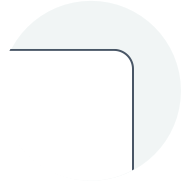
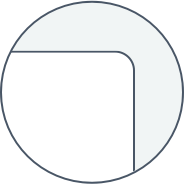
404 error practice

Changed region(s): [[0.0, 0.0, 1.0, 1.0]]

diff --git a/_site/animation.scss b/_site/animation.scss
@@ -28,11 +28,13 @@ p {
   font-weight: 16px;
 }
 
+// 500 error
+
 .wrench {
   text-align: center;
   margin: 0 auto;
-  animation: wrench-wait2 3s ease-in infinite;
-  transform-origin: 28px 28px;
+  animation: wrench-move 3s ease-in infinite;
+  transform-origin: 26px 26px;
   margin-top: 44px;
   margin-bottom: 44px;
   z-index: 100;
@@ -41,8 +43,7 @@ p {
   top: 120px;
 }
 
-//keyframe
-@keyframes wrench-wait2 {
+@keyframes wrench-move {
   22% { transform:rotate(-30deg) }
   26% { transform:rotate(-30deg) }
 
@@ -58,7 +59,6 @@ p {
   95% { transform:rotate(15deg) }
   100% { transform:rotate(0deg) }
 
-
 }
 
 
@@ -72,7 +72,6 @@ p {
 
 }
 
-//keyframe
 @keyframes error-thunder {
   50% {
     transform: translate(-15px, 15px);
@@ -81,11 +80,45 @@ p {
 }
 
 .bg-device {
-  width: 180px;
-  height: 180px;
+  width: 184px;
+  height: 184px;
   margin: 0 auto;
   background: url(img_device-bg.png) no-repeat no-repeat;
   z-index: 0;
   position: relative;
   top: -140px;
+}
+
+
+
+// 404 error
+.bg-compass {
+  width: 180px;
+  height: 206px;
+  margin: 0 auto;
+  background: url(img_compass.png) no-repeat no-repeat;
+  background-size: 100% 100%;
+  z-index: 0;
+  position: relative;
+  top: -140px;
+}
+
+.needle {
+  width: 40px;
+  height: 102px;
+  text-align: center;
+  margin: 0 auto;
+  animation: needle-move 5.5s ease-out infinite;
+  transform-origin: 50% 50%;
+  margin-top: 44px;
+  margin-bottom: 44px;
+  z-index: 100;
+  position: relative;
+  top: 72px;
+}
+
+@keyframes needle-move {
+  0% { transform:rotate(-20deg) }
+  50% { transform:rotate(340deg) }
+  100% { transform:rotate(-20deg) }
 }

diff --git a/_site/animation.css b/_site/animation.css
@@ -25,8 +25,8 @@ p {
 .wrench {
   text-align: center;
   margin: 0 auto;
-  animation: wrench-wait2 3s ease-in infinite;
-  transform-origin: 28px 28px;
+  animation: wrench-move 3s ease-in infinite;
+  transform-origin: 26px 26px;
   margin-top: 44px;
   margin-bottom: 44px;
   z-index: 100;
@@ -34,7 +34,7 @@ p {
   left: 20px;
   top: 120px; }
 
-@keyframes wrench-wait2 {
+@keyframes wrench-move {
   22% {
     transform: rotate(-30deg); }
   26% {
@@ -68,12 +68,43 @@ p {
     transform: translate(-15px, 15px);
     opacity: 1; } }
 .bg-device {
-  width: 180px;
-  height: 180px;
+  width: 184px;
+  height: 184px;
   margin: 0 auto;
   background: url(img_device-bg.png) no-repeat no-repeat;
   z-index: 0;
   position: relative;
   top: -140px; }
+
+.bg-compass {
+  width: 180px;
+  height: 206px;
+  margin: 0 auto;
+  background: url(img_compass.png) no-repeat no-repeat;
+  background-size: 100% 100%;
+  z-index: 0;
+  position: relative;
+  top: -140px; }
+
+.needle {
+  width: 40px;
+  height: 102px;
+  text-align: center;
+  margin: 0 auto;
+  animation: needle-move 5.5s ease-out infinite;
+  transform-origin: 50% 50%;
+  margin-top: 44px;
+  margin-bottom: 44px;
+  z-index: 100;
+  position: relative;
+  top: 72px; }
+
+@keyframes needle-move {
+  0% {
+    transform: rotate(-20deg); }
+  50% {
+    transform: rotate(340deg); }
+  100% {
+    transform: rotate(-20deg); } }
 
 /*# sourceMappingURL=animation.css.map */

diff --git a/animation.css b/animation.css
@@ -25,8 +25,8 @@ p {
 .wrench {
   text-align: center;
   margin: 0 auto;
-  animation: wrench-wait2 3s ease-in infinite;
-  transform-origin: 28px 28px;
+  animation: wrench-move 3s ease-in infinite;
+  transform-origin: 26px 26px;
   margin-top: 44px;
   margin-bottom: 44px;
   z-index: 100;
@@ -34,7 +34,7 @@ p {
   left: 20px;
   top: 120px; }
 
-@keyframes wrench-wait2 {
+@keyframes wrench-move {
   22% {
     transform: rotate(-30deg); }
   26% {
@@ -68,12 +68,43 @@ p {
     transform: translate(-15px, 15px);
     opacity: 1; } }
 .bg-device {
-  width: 180px;
-  height: 180px;
+  width: 184px;
+  height: 184px;
   margin: 0 auto;
   background: url(img_device-bg.png) no-repeat no-repeat;
   z-index: 0;
   position: relative;
   top: -140px; }
+
+.bg-compass {
+  width: 180px;
+  height: 206px;
+  margin: 0 auto;
+  background: url(img_compass.png) no-repeat no-repeat;
+  background-size: 100% 100%;
+  z-index: 0;
+  position: relative;
+  top: -140px; }
+
+.needle {
+  width: 40px;
+  height: 102px;
+  text-align: center;
+  margin: 0 auto;
+  animation: needle-move 5.5s ease-out infinite;
+  transform-origin: 50% 50%;
+  margin-top: 44px;
+  margin-bottom: 44px;
+  z-index: 100;
+  position: relative;
+  top: 72px; }
+
+@keyframes needle-move {
+  0% {
+    transform: rotate(-20deg); }
+  50% {
+    transform: rotate(340deg); }
+  100% {
+    transform: rotate(-20deg); } }
 
 /*# sourceMappingURL=animation.css.map */

diff --git a/animation.scss b/animation.scss
@@ -28,6 +28,8 @@ p {
   font-weight: 16px;
 }
 
+// 500 error
+
 .wrench {
   text-align: center;
   margin: 0 auto;
@@ -41,7 +43,6 @@ p {
   top: 120px;
 }
 
-//keyframe
 @keyframes wrench-move {
   22% { transform:rotate(-30deg) }
   26% { transform:rotate(-30deg) }
@@ -58,7 +59,6 @@ p {
   95% { transform:rotate(15deg) }
   100% { transform:rotate(0deg) }
 
-
 }
 
 
@@ -72,7 +72,6 @@ p {
 
 }
 
-//keyframe
 @keyframes error-thunder {
   50% {
     transform: translate(-15px, 15px);
@@ -88,4 +87,38 @@ p {
   z-index: 0;
   position: relative;
   top: -140px;
+}
+
+
+
+// 404 error
+.bg-compass {
+  width: 180px;
+  height: 206px;
+  margin: 0 auto;
+  background: url(img_compass.png) no-repeat no-repeat;
+  background-size: 100% 100%;
+  z-index: 0;
+  position: relative;
+  top: -140px;
+}
+
+.needle {
+  width: 40px;
+  height: 102px;
+  text-align: center;
+  margin: 0 auto;
+  animation: needle-move 5.5s ease-out infinite;
+  transform-origin: 50% 50%;
+  margin-top: 44px;
+  margin-bottom: 44px;
+  z-index: 100;
+  position: relative;
+  top: 72px;
+}
+
+@keyframes needle-move {
+  0% { transform:rotate(-20deg) }
+  50% { transform:rotate(340deg) }
+  100% { transform:rotate(-20deg) }
 }

diff --git a/404error.html b/404error.html
@@ -1,0 +1,19 @@
+<!DOCTYPE html>
+<html>
+<head>
+<link rel="stylesheet" type="text/css" href="/animation.css">
+<style type="text/css">
+  * { font-family: 'Spoqa Han Sans','Sans-serif'; }
+</style>
+</head>
+<body>
+<h1>404</h1>
+<h2>페이지를 찾을 수 없습니다</h2>
+<p>페이지의 주소가 잘못 입력되었거나 페이지가 수정 및 삭제되어 찾을 수 없습니다. 입력한 주소를 다시 한번 확인해주세요.</p>
+<img class="needle" src="/img_needle.png">
+<div class="bg-compass"></div>
+
+<h3>이전 페이지로 돌아가기</h3>
+<p>고객센터 02-1234-4567</p>
+</body>
+</html>

diff --git a/_site/404error.html b/_site/404error.html
@@ -1,0 +1,19 @@
+<!DOCTYPE html>
+<html>
+<head>
+<link rel="stylesheet" type="text/css" href="/animation.css">
+<style type="text/css">
+  * { font-family: 'Spoqa Han Sans','Sans-serif'; }
+</style>
+</head>
+<body>
+<h1>404</h1>
+<h2>페이지를 찾을 수 없습니다</h2>
+<p>페이지의 주소가 잘못 입력되었거나 페이지가 수정 및 삭제되어 찾을 수 없습니다. 입력한 주소를 다시 한번 확인해주세요.</p>
+<img class="needle" src="/img_needle.png">
+<div class="bg-compass"></div>
+
+<h3>이전 페이지로 돌아가기</h3>
+<p>고객센터 02-1234-4567</p>
+</body>
+</html>

diff --git a/_site/500error.html b/_site/500error.html
@@ -7,7 +7,7 @@
 </style>
 </head>
 <body>
-<h1>5000</h1>
+<h1>500</h1>
 <h2>내부 서버에 오류가 있습니다</h2>
 <p>잠시 후 새로고침을 다시 시도하거나 오류가 지속될 시 <b>고객센터</b>로 불편사항을 접수해주십시오.</p>
 <img class="thunder" src="/img_thunder.png">
